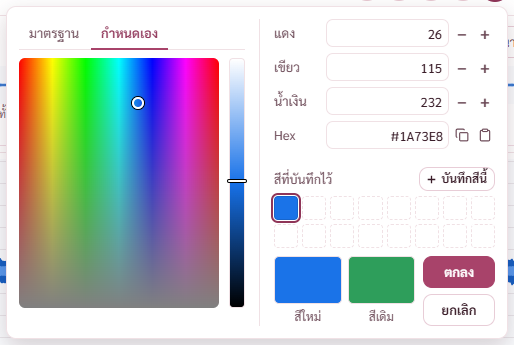
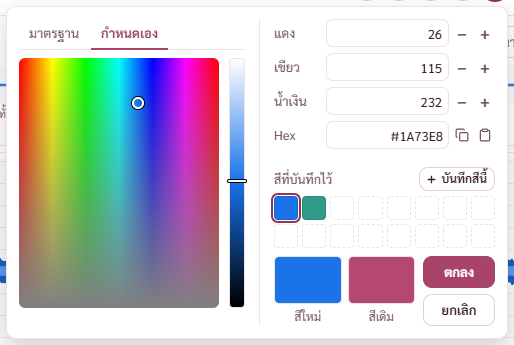
แก้บั๊กชุด 8 หน้าแปลงเสียง: จุดลากสูงคงที่ คิวเลื่อนในกรอบ ส่วนตั้งค่ากับปุ่มแปลงตรึงล่างจอ · ดรอปดาวน์ชนิดเสียงแบ่งเสียคุณภาพกับไม่เสียคุณภาพ หัวย่อยตามชนิด ช่องค้นมีแว่นขยาย ลอยไม่โดนกรอบตัด · แผงสีกำหนดเอง กดตกลงแล้วใช้สีนี้ สีเดิมถูก ยกเลิกคืนชุดเดิม
เป้าหมาย
--------
ชุด 8 ใน docs/BUGS.md ข้อ 26 27 · พี่กันสั่ง "ทำชุด 8 ต่อ"
- ข้อ 26 "มันดูแปลกๆไหม ปุ่มเพิ่มไฟล์มันลดๆๆๆลงเรื่อยๆ" · "เอา เเต่เดี๋ยวตอนทำจริงดูอีกที" · "จุดนี้ต้องตรึงไว้ด้วย ตอนที่มีเพลเยอะๆ"
- ข้อ 27 "ใส่ alac ยัง" · "เจอละ เราหาไม่เจอเอง" · "ดีเลยย เอา" (ทั้งสองกลุ่ม หัวย่อย ช่องค้น)
- ระหว่างทำ พี่กันทัก "หัวข้อ สีเข้มขึ้นได้นะ กับเส้นเเบ่ได้" · "เเนวเดียวกัน เเละ icon เเว่นขยายหายไปไหน" · "ขยายให้ยาวถึงปุ่มตั้ค่าได้" · "ขอใหญ่กว่านี้นิดๆ เเละสีตามธีมเว็บ"
- งานแก้ต่อชุด 7 ที่พี่กันเจอระหว่างนี้ "เรากดเลือกสีอื่นขึ้นมา เเล้วเรายัไม่เลือกสีอะไรเลย เเล้วกดตกลง มันไม่เปลี่ยนสี ทั้งๆที่ สีใหม่ สีเดิมมันดูขึ้นผิดด้วย"
รอบนี้ไม่แตะ ชุด 9 ถึง 13

ที่ทำ
-----

หน้าแปลงเสียง — src/styles/app.css · src/components/ConvertPane.tsx
------------------------------------------------------------------
[1] คิวมีไฟล์ จุดลากสูง 90 จุดคงที่ · รายการคิวเลื่อนในกรอบของตัวเอง · ส่วนตั้งทีเดียวทั้งคิว ที่เก็บไฟล์ใหม่ ปุ่มแปลง อยู่ล่างจอเสมอ เส้นแบ่งด้านบนเดิม (ข้อ 26)
เดิม       จุดลากยืดเต็มที่ว่างที่เหลือ 1 ไฟล์เกือบครึ่งจอ 7 ไฟล์เหลือแถบบาง · คิวยาวต้องเลื่อนหน้าหาปุ่มแปลง
ใหม่       กฎ :has([data-qlist]) ให้หน้าสูงพอดีจอ รายการคิว overflow auto จุดลาก 90 จุด ส่วนล่าง margin-top auto · คิวว่างใช้จุดลากใหญ่เต็มหน้าเหมือนเดิม
ตรวจ       คิว 1 3 7 ไฟล์ จุดลากสูง 90 ทุกครั้ง แถวปุ่มแปลงจบที่ขอบล่างจอ 852 หน้าไม่เลื่อน · 7 ไฟล์รายการเลื่อนในกรอบ · ภาพ 26-คิว-1-ไฟล์ 26-คิว-3-ไฟล์ 26-คิว-7-ไฟล์
[…]

Changed region(s): [[0.6537, 0.7246, 0.8093, 0.8986], [0.5603, 0.5507, 0.6537, 0.6377]]

diff --git a/src/components/Dropdown.tsx b/src/components/Dropdown.tsx
@@ -4,11 +4,13 @@
    ✓ ตัวหนังสือในปุ่มไม่มีอะไรตัด ตัดที่ขอบปุ่มที่เดียว หัว ไ ใ โ ไม่โดนเฉือน
    ✓ ปุ่มกว้างเท่าตัวเลือกที่ยาวที่สุด ไม่หดกระตุกตอนเปลี่ยนค่า */
 import { useCallback, useEffect, useRef, useState } from "react";
+import { createPortal } from "react-dom";
 import { dropStyle, useDropPlacement } from "../lib/popupFit";
 import { useClickOutside, useEscClose } from "../lib/popup";
-import { IcChevronDown } from "./icons";
+import { IcChevronDown, IcSearch } from "./icons";
 
-export type DdOption<T extends string> = { value: T; label: string };
+/** group หัวกลุ่มใหญ่ · sub หัวย่อยในกลุ่ม · ตัวเลือกเรียงตามกลุ่มมาแล้ว หัวขึ้นตอนกลุ่มเปลี่ยน */
+export type DdOption<T extends string> = { value: T; label: string; group?: string; sub?: string };
 
 export default function Dropdown<T extends string>(p: {
   options: DdOption<T>[];
@@ -19,24 +21,43 @@ export default function Dropdown<T extends string>(p: {
   display?: (opt: DdOption<T> | undefined) => string;
   /** ปุ่มยืดเต็มช่องไหม · ไม่ยืด = กว้างเท่าตัวเลือกที่ยาวที่สุด */
   stretch?: boolean;
+  /** ช่องพิมพ์ค้นบนสุดของรายการ ค้นทั้งป้าย หัวกลุ่ม หัวย่อย (BUGS ข้อ 27 พี่กัน "ดีเลยย เอา") */
+  search?: boolean;
+  /** รายการลอยบนสุดของหน้า ไม่โดนกรอบที่เลื่อนได้ตัด (ใช้ในแถวของรายการที่เลื่อนในกรอบ เช่นคิวแปลงเสียง) */
+  portal?: boolean;
 }) {
   const [open, setOpen] = useState(false);
   const [hi, setHi] = useState(-1);
+  const [qy, setQy] = useState("");
+  const words = qy.trim().toLowerCase().split(/\s+/).filter(Boolean);
+  const list = words.length ? p.options.filter((o) => { const t = `${o.label} ${o.group ?? ""} ${o.sub ?? ""}`.toLowerCase(); return words.every((w) => t.includes(w)); }) : p.options;
   const wrap = useRef<HTMLDivElement>(null);
   const panel = useRef<HTMLDivElement>(null);
   const btn = useRef<HTMLButtonElement>(null);
   const place = useDropPlacement(open, wrap, panel);
   const close = useCallback(() => { setOpen(false); btn.current?.focus(); }, []);
   useEscClose(open, close);
-  useClickOutside(open, wrap, () => setOpen(false));
+  useClickOutside(open && !p.portal, wrap, () => setOpen(false));
+  // ลอยบนสุดของหน้า กดนอกปุ่มและนอกรายการปิด · หน้าเลื่อนปิด (ตำแหน่งยึดกับจอ)
+  const [fixedPos, setFixedPos] = useState<{ left: number; right: number; top: number; bottom: number; width: number } | null>(null);
+  useEffect(() => {
+    if (!open || !p.portal) return;
+    // กว้างถึงขอบขวาของกลุ่มที่ปุ่มอยู่ (เช่นถึงปุ่มตั้งค่าข้างดรอปดาวน์ในแถวคิว · พี่กันสั่ง "ขยายให้ยาวถึงปุ่มตั้ค่าได้")
+    const r = wrap.current?.getBoundingClientRect(), pr = wrap.current?.parentElement?.getBoundingClientRect(); if (r) { const right = Math.max(r.right, pr?.right ?? r.right); setFixedPos({ left: r.left, right, top: r.top, bottom: r.bottom, width: right - r.left }); }
+    const down = (e: MouseEvent) => { const t = e.target as Node; if (!wrap.current?.contains(t) && !panel.current?.contains(t)) setOpen(false); };
+    const scroll = (e: Event) => { if (!panel.current?.contains(e.target as Node)) setOpen(false); };
+    document.addEventListener("mousedown", down); window.addEventListener("scroll", scroll, true);
+    return () => { document.removeEventListener("mousedown", down); window.removeEventListener("scroll", scroll, true); };
+  }, [open, p.portal]);
 
   const cur = p.options.find((o) => o.value === p.value);
   const text = p.display ? p.display(cur) : cur?.label ?? "";
   const shown = p.display ? p.options.map((o) => p.display!(o)) : p.options.map((o) => o.label);
 
   useEffect(() => {
-    if (open) setHi(Math.max(0, p.options.findIndex((o) => o.value === p.value)));
+    if (open) { setQy(""); setHi(Math.max(0, p.options.findIndex((o) => o.value === p.value))); }
   }, [open, p.options, p.value]);
+  useEffect(() => { if (open && words.length) setHi(list.length ? 0 : -1); /* eslint-disable-next-line react-hooks/exhaustive-deps */ }, [qy]);
 
   useEffect(() => {
     if (!open || hi < 0) return;
@@ -46,14 +67,14 @@ export default function Dropdown<T extends string>(p: {
   const pick = (v: T) => { p.onChange(v); close(); };
 
   const onKey = (e: React.KeyboardEvent) => {
-    const n = p.options.length;
+    const n = list.length;
     if (!open && (e.key === "ArrowDown" || e.key === "ArrowUp" || e.key === "Enter" || e.key === " ")) {
       e.preventDefault(); setOpen(true); return;
     }
     if (!open) return;
     if (e.key === "ArrowDown") { e.preventDefault(); setHi((h) => (h + 1) % n); }
     if (e.key === "ArrowUp") { e.preventDefault(); setHi((h) => (h <= 0 ? n - 1 : h - 1)); }
-    if (e.key === "Enter" || e.key === " ") { e.preventDefault(); if (hi >= 0) pick(p.options[hi].value); }
+    if (e.key === "Enter" || (e.key === " " && !p.search)) { e.preventDefault(); if (hi >= 0 && list[hi]) pick(list[hi].value); }
     if (e.key === "Tab") setOpen(false);
   };
 
@@ -82,17 +103,27 @@ export default function Dropdown<T extends string>(p: {
         )}
         <IcChevronDown />
       </button>
-      {open && (
+      {open && (() => { const menu = (
         <div
           ref={panel}
           className="menu pop-in"
           role="listbox"
           aria-label={p.label}
-          style={{ position: "absolute", right: 0, minWidth: "100%", zIndex: "var(--z-menu)" as unknown as number, ...dropStyle(place) }}
+          style={p.portal && fixedPos
+            ? { position: "fixed", left: fixedPos.left, minWidth: fixedPos.width, maxWidth: window.innerWidth - fixedPos.left - 8, zIndex: "var(--z-menu)" as unknown as number, maxHeight: place.max, ...(place.up ? { bottom: window.innerHeight - fixedPos.top + 6 } : { top: fixedPos.bottom + 6 }) }
+            : { position: "absolute", right: 0, minWidth: "100%", zIndex: "var(--z-menu)" as unknown as number, ...dropStyle(place) }}
         >
-          {p.options.map((o, i) => (
+          {p.search && (
+            <div className="ddsearch" onMouseDown={(e) => e.stopPropagation()}>
+              <IcSearch size={14} />
+              <input autoFocus value={qy} onChange={(e) => setQy(e.target.value)} onKeyDown={onKey} placeholder="พิมพ์ค้น เช่น alac 5.1 320" aria-label={"ค้นใน" + p.label} data-ddsearch />
+            </div>
+          )}
+          {p.search && !list.length && <div className="ddempty">ไม่เจอตัวเลือกที่ตรงกับ “{qy}”</div>}
+          {list.map((o, i) => (<div key={o.value} style={{ display: "contents" }}>
+            {o.group && o.group !== list[i - 1]?.group && <div className="ddgroup" role="presentation">{o.group}</div>}
+            {o.sub && (o.sub !== list[i - 1]?.sub || o.group !== list[i - 1]?.group) && <div className="ddsub" role="presentation">{o.sub}</div>}
             <div
-              key={o.value}
               role="option"
               aria-selected={o.value === p.value}
               className={"opt" + (o.value === p.value ? " on" : "") + (i === hi ? " hi" : "")}
@@ -106,9 +137,8 @@ export default function Dropdown<T extends string>(p: {
                 <svg width="14" height="14" viewBox="0 0 24 24" fill="none" stroke="currentColor" strokeWidth="3" aria-hidden="true"><path d="M5 12.5l4.5 4.5L19 7.5" /></svg>
               )}
             </div>
-          ))}
-        </div>
-      )}
+          </div>))}
+        </div>); return p.portal ? createPortal(menu, document.body) : menu; })()}
     </div>
   );
 }

diff --git a/src/styles/app.css b/src/styles/app.css
@@ -1325,3 +1325,36 @@ html[data-full] .titlebar, html[data-full] .sidewrap, html[data-full] aside.side
 [data-colorpick] .padcmp > span { flex: 1; display: flex; flex-direction: column; gap: 3px; }
 [data-colorpick] .padcmp i { width: 100%; height: auto; flex: 1; min-height: 40px; }
 :is([data-crop], [data-colorpick]) .padsaved-head .btn { padding: 0 7px 0 5px; gap: 3px; }
+
+/* หน้าแปลงเสียงตอนคิวมีไฟล์ (BUGS ข้อ 26) · จุดลากสูงคงที่ 90 จุด ไม่หดตามจำนวนไฟล์ · รายการคิวเลื่อนในกรอบของตัวเอง
+   ส่วนตั้งทีเดียวทั้งคิว ที่เก็บไฟล์ใหม่ ปุ่มแปลง อยู่ล่างจอเสมอ มีเส้นแบ่งด้านบน (พี่กัน "ปุ่มเพิ่มไฟล์มันลดๆๆๆลงเรื่อยๆ" · "จุดนี้ต้องตรึงไว้ด้วย ตอนที่มีเพลเยอะๆ") · คิวว่างใช้จุดลากใหญ่เต็มหน้าเหมือนเดิม */
+.ag[data-graphmode="convert"]:has([data-qlist]) { height: 100%; min-height: 0; box-sizing: border-box; }
+.ag[data-graphmode="convert"]:has([data-qlist]) > .cq { flex: 1 1 0; min-height: 0; }
+.ag[data-graphmode="convert"] > .cq:has([data-qlist]) > .card:first-child { flex: 0 1 auto; min-height: 0; }
+.ag[data-graphmode="convert"] > .cq:has([data-qlist]) > .card:first-child > .cqlist { flex: 0 1 auto; min-height: 0; overflow-y: auto; overscroll-behavior: contain; }
+.ag[data-graphmode="convert"] > .cq:has([data-qlist]) > .card:first-child > .drop { flex: none; height: 90px; min-height: 90px !important; box-sizing: border-box; }
+.ag[data-graphmode="convert"] > .cq:has([data-qlist]) > .cqcards { margin-top: auto; flex: none; }
+.ag[data-graphmode="convert"] > .cq:has([data-qlist]) > .cqfoot { margin-top: 0; flex: none; padding-bottom: 14px; }
+
+/* ดรอปดาวน์มีช่องค้นกับหัวกลุ่ม (BUGS ข้อ 27) · ช่องค้นตรึงบนสุดของรายการ */
+.menu .ddsearch { position: sticky; top: -6px; z-index: 1; margin: -6px -6px 4px; padding: 6px; background: var(--win); border-bottom: 1px solid var(--line); }
+.menu .ddsearch input { width: 100%; box-sizing: border-box; height: 30px; padding: 0 10px; border: 1px solid var(--line); border-radius: 7px; background: var(--win2); color: var(--txt); font: inherit; font-size: 13px; outline: 0; }
+.menu .ddsearch input:focus { border-color: var(--accent); box-shadow: 0 0 0 3px color-mix(in srgb, var(--accent) 22%, transparent); }
+.menu .ddgroup { padding: 8px 10px 2px; font-size: 12px; font-weight: 700; color: var(--accent-ink); letter-spacing: .02em; }
+.menu .ddgroup:not(:first-of-type) { border-top: 1px solid var(--line); margin-top: 4px; }
+.menu .ddsub { padding: 4px 10px 1px 14px; font-size: 11.5px; font-weight: 600; color: var(--txt3); }
+.menu .ddempty { padding: 10px; font-size: 13px; color: var(--txt3); }
+/* หัวย่อยชนิดเสียงสีเข้มขึ้น มีเส้นแบ่งก่อนแต่ละชนิด (พี่กันสั่ง "หัวข้อ สีเข้มขึ้นได้นะ กับเส้นเเบ่ได้") */
+.menu .ddsub { color: var(--txt); font-size: 12px; font-weight: 700; padding-top: 7px; margin-top: 3px; border-top: 1px solid var(--line); }
+.menu .ddgroup + .ddsub { border-top: 0; margin-top: 0; padding-top: 3px; }
+/* หัวกลุ่มใหญ่มีเส้นแบ่งเข้มกว่าหัวย่อย ยกเว้นกลุ่มแรกใต้ช่องค้น */
+.menu .ddgroup { border-top: 2px solid var(--line); margin-top: 6px; padding-top: 9px; }
+.menu > .ddsearch + div > .ddgroup, .menu > div:first-child > .ddgroup { border-top: 0; margin-top: 0; padding-top: 4px; }
+/* ช่องค้นในดรอปดาวน์มีแว่นขยายด้านซ้าย (พี่กันถาม "icon เเว่นขยายหายไปไหน" · สกิล search-system) */
+.menu .ddsearch { display: flex; align-items: center; }
+.menu .ddsearch svg { position: absolute; left: 16px; color: var(--txt3); pointer-events: none; }
+.menu .ddsearch input { padding-left: 30px; }
+/* หัวย่อยชนิดเสียงใหญ่ขึ้นนิดหน่อย สีตามธีม (พี่กันสั่ง "ขอใหญ่กว่านี้นิดๆ เเละสีตามธีมเว็บ") */
+.menu .ddsub { font-size: 13px; color: var(--accent-ink); }
+/* หัวกลุ่มใหญ่ยังเด่นกว่าหัวย่อย */
+.menu .ddgroup { font-size: 13.5px; }

diff --git a/src/pages/GraphPage.tsx b/src/pages/GraphPage.tsx
@@ -672,6 +672,7 @@ export default function GraphPage({ req, onConsumed, onBitrate }: { req: GraphRe
   const [ovFold] = useOvFold();
   // หน้าความดัง รวมทุกช่อง (LUFS) · L · R · เทียบซ้ายขวา (dB แบบซ้อนเทียบเดิม)
   const [loudMode, setLoudMode] = useState<"mix" | "FL" | "FR" | "lr">("mix");
+  const [swSnap, setSwSnap] = useState<{ theme: string; color: string; old: string } | null>(null);
   const [spekRes, setSpekRes] = useState<"fine" | "coarse">(() => { try { return localStorage.getItem(SPEK_RES_KEY) === "coarse" ? "coarse" : "fine"; } catch { return "fine"; } });
   const [zoom, setZoom] = useState<number | "all">("all");
   const [center, setCenter] = useState(0);
@@ -1153,7 +1154,11 @@ export default function GraphPage({ req, onConsumed, onBitrate }: { req: GraphRe
         disabled={k === "cmp" && !names.includes("FL")} title={k === "cmp" && !names.includes("FL") ? "ซ้อนเทียบใช้กับแทร็กที่มีช่องซ้ายขวา" : undefined}>{VIEW_ICON[k]}{l}</button>)}</div>
       {/* ปุ่มแบบรูปคลื่นย้ายลงหัวการ์ดรูปคลื่น (BUGS ข้อ 12 · พี่กัน "พอเราปรับโโยเอา audacity มาเป็นตัวหลัก เจ้ากราฟแท่งมันจะเหลือ 1 อัน เอามันย้ายลงมาในการ์ดเลย") */}
       <div className="sws" style={{ marginLeft: "auto" }} role="group" aria-label="ชุดสี">{THEME_ORDER.map((n) => <button key={n} type="button" className={"sw" + (prefs.theme === n ? " on" : "")} aria-label={"ชุดสี" + n} title={"ชุดสี" + n} onClick={() => setPref("theme", n)} data-theme={n}
-        style={{ background: `linear-gradient(135deg,${THEMES[n].ramp[2]},${THEMES[n].ramp[5]} 60%,${THEMES[n].ramp[7]})` }} />)}<PadCustom pad={prefs.customColor} what="สีกราฟ" custom={prefs.theme === CUSTOM} short={false} panelStyle={{ left: "auto", right: 0, zIndex: 30 }}
+        style={{ background: `linear-gradient(135deg,${THEMES[n].ramp[2]},${THEMES[n].ramp[5]} 60%,${THEMES[n].ramp[7]})` }} />)}{/* เปิดแผงจำชุดสีตอนนั้นไว้ · สีเดิมคือสีที่กราฟใช้อยู่ตอนเปิด · ตกลงใช้สีกำหนดเองแม้ยังไม่ได้แตะสี · ยกเลิกคืนชุดสีเดิมทั้งชุด */}
+        <PadCustom pad={prefs.customColor} what="สีกราฟ" custom={prefs.theme === CUSTOM} short={false} panelStyle={{ left: "auto", right: 0, zIndex: 30 }}
+          oldColor={swSnap?.old} onOpen={() => setSwSnap({ theme: prefs.theme, color: prefs.customColor, old: prefs.theme === CUSTOM ? prefs.customColor : THEMES[prefs.theme].rms })}
+          onOk={() => setPrefs((p) => { const n = { ...p, theme: CUSTOM }; try { localStorage.setItem(PREF_KEY, JSON.stringify(n)); } catch { /* เก็บไม่ได้ ใช้ค่าในหน้าไปก่อน */ } return n; })}
+          onCancel={() => { const sn = swSnap; if (sn) setPrefs((p) => { const n = { ...p, theme: sn.theme, customColor: sn.color }; try { localStorage.setItem(PREF_KEY, JSON.stringify(n)); } catch { /* เก็บไม่ได้ */ } return n; }); }}
           onPad={(c) => setPrefs((p) => { const n = { ...p, customColor: c, theme: CUSTOM }; try { localStorage.setItem(PREF_KEY, JSON.stringify(n)); } catch { /* เก็บไม่ได้ ใช้ค่าในหน้าไปก่อน */ } return n; })}
           trigger={(open, toggle) => <button type="button" className={"sw sw-custom" + (prefs.theme === CUSTOM ? " on" : "")} aria-expanded={open} aria-label="ชุดสีกำหนดเอง" title="ชุดสีกำหนดเอง เลือกสีหลักสีเดียว โปรแกรมไล่ชุดสีให้" onClick={toggle} data-sw-custom
             style={{ background: `${prefs.theme === CUSTOM ? `linear-gradient(135deg,${th.ramp[2]},${th.ramp[5]} 60%,${th.ramp[7]})` : `linear-gradient(135deg,${themeOf(prefs.customColor).ramp[2]},${themeOf(prefs.customColor).ramp[5]} 60%,${themeOf(prefs.customColor).ramp[7]})`} padding-box, conic-gradient(#e0457b,#f0a23b,#e8d23a,#4cc38a,#3b8fe0,#8a5ae0,#e0457b) border-box` }} />} /></div>

diff --git a/src/components/ConvertPane.tsx b/src/components/ConvertPane.tsx
@@ -98,7 +98,8 @@ export default function ConvertPane(p: { onCompare: (a: string, b: string, note:
   const openPanel = (k: string) => setPanel(k);
   useEffect(() => { encodeApi.status().then(setEncs, () => setEncs([])); }, []);
   /** ชุดค่าทุกชนิดเสียงในดรอปดาวน์ · ค่าที่ตั้งเองในแผงไม่ตรงชุดไหน ก็ยังขึ้นชื่อค่าที่ใช้อยู่ */
-  const presets = useMemo(() => CODECS.flatMap((c) => c.presets.map((pr, i) => ({ value: c.id + ":" + i, label: c.name + " · " + pr.label + " · " + pr.detail, spec: presetSpec(c, i, encs) }))), [encs]);
+  // แบ่งสองกลุ่มใหญ่ เสียคุณภาพ กับ ไม่เสียคุณภาพ หัวย่อยตามชนิด (BUGS ข้อ 27 พี่กันหา ALAC ไม่เจอ)
+  const presets = useMemo(() => [false, true].flatMap((ll) => CODECS.filter((c) => !!c.lossless === ll).flatMap((c) => c.presets.map((pr, i) => ({ value: c.id + ":" + i, label: c.name + " · " + pr.label + " · " + pr.detail, group: ll ? "ไม่เสียคุณภาพ" : "เสียคุณภาพ", sub: c.name, spec: presetSpec(c, i, encs) })))), [encs]);
   const presetOf = (sp: EncodeSpec) => presets.find((x) => x.spec.codec === sp.codec && specLabel(x.spec) === specLabel(sp))?.value ?? "";
   const specOf = (v: string) => presets.find((x) => x.value === v)?.spec ?? null;
 
@@ -137,7 +138,7 @@ export default function ConvertPane(p: { onCompare: (a: string, b: string, note:
                 <span style={{ color: "var(--txt3)" }} aria-hidden="true">→</span>
                 {locked ? <span className="dd locked" style={{ flex: 1 }}><span style={{ overflow: "hidden", textOverflow: "ellipsis", whiteSpace: "nowrap" }}>{specLabel(it.spec)}</span></span> : (
                   <span style={{ display: "flex", gap: 4, minWidth: 0 }}>
-                    <Dropdown stretch label={"ปลายทาง " + baseName(it.path)} value={presetOf(it.spec)} options={presets} display={(o) => o?.label ?? specLabel(it.spec)} onChange={(v) => { const sp = specOf(v); if (sp) setItemSpec(it.id, sp); }} />
+                    <Dropdown stretch search portal label={"ปลายทาง " + baseName(it.path)} value={presetOf(it.spec)} options={presets} display={(o) => o?.label ?? specLabel(it.spec)} onChange={(v) => { const sp = specOf(v); if (sp) setItemSpec(it.id, sp); }} />
                     <button type="button" className="btn btn-ghost btn-sm" style={{ width: 34, padding: 0, flex: "none" }} title="ตั้งละเอียดในแผงตั้งค่าเสียง" aria-label="ตั้งละเอียดในแผงตั้งค่าเสียง" onClick={() => openPanel(it.id)} data-qto><IcSettings size={15} /></button>
                   </span>
                 )}
@@ -169,7 +170,7 @@ export default function ConvertPane(p: { onCompare: (a: string, b: string, note:
       <div className="cqcards">
         <div className="card"><h3>ตั้งทีเดียวทั้งคิว</h3>
           <div className="optline">
-            <Dropdown stretch label="ตั้งทีเดียวทั้งคิว" value={pending.length === 0 ? presetOf(q.all) : allSame ? presetOf(pending[0].spec) : ""} options={presets}
+            <Dropdown stretch search label="ตั้งทีเดียวทั้งคิว" value={pending.length === 0 ? presetOf(q.all) : allSame ? presetOf(pending[0].spec) : ""} options={presets}
               display={(o) => o?.label ?? (pending.length === 0 ? specLabel(q.all) : allSame ? specLabel(pending[0].spec) : "ตั้งทีละไฟล์ (ตามแถว)")} onChange={(v) => { const sp = specOf(v); if (sp) setAll(sp); }} />
             <button type="button" className="btn btn-ghost btn-sm" onClick={() => openPanel("all")} data-qall><IcSettings size={15} />เปิดแผงตั้งค่าเสียง</button>
           </div>

diff --git a/src/components/ColorPick.tsx b/src/components/ColorPick.tsx
@@ -48,7 +48,7 @@ const SAVED_KEY = "color-saved", SAVED_MAX = 16;
 function loadSaved(): string[] { try { const v = JSON.parse(localStorage.getItem(SAVED_KEY) ?? "[]"); return Array.isArray(v) ? v.filter((x) => typeof x === "string" && /^#[\da-f]{6}$/.test(x)).slice(0, SAVED_MAX) : []; } catch { return []; } }
 function keepSaved(v: string[]) { try { localStorage.setItem(SAVED_KEY, JSON.stringify(v)); } catch { /* เก็บไม่ได้ ใช้ในหน้าไปก่อน */ } }
 
-export function PadCustom(p: { pad: string; onPad: (c: string) => void; custom: boolean; short: boolean; what?: string; trigger?: (open: boolean, toggle: () => void) => React.ReactNode; panelStyle?: React.CSSProperties }) {
+export function PadCustom(p: { pad: string; onPad: (c: string) => void; custom: boolean; short: boolean; what?: string; trigger?: (open: boolean, toggle: () => void) => React.ReactNode; panelStyle?: React.CSSProperties; onOpen?: () => void; onOk?: () => void; onCancel?: () => void; oldColor?: string }) {
   const { short } = p, what = p.what ?? "สีขอบ";
   const [open, setOpen] = useState(false);
   const [tab, setTab] = useState<"std" | "own">("own");
@@ -62,8 +62,9 @@ export function PadCustom(p: { pad: string; onPad: (c: string) => void; custom: 
   const saveColor = (c: string) => { const n = [c.toLowerCase(), ...saved.filter((x) => x !== c.toLowerCase())].slice(0, SAVED_MAX); setSaved(n); keepSaved(n); };
   const dropColor = (c: string) => { const n = saved.filter((x) => x !== c); setSaved(n); keepSaved(n); };
   const wrap = useRef<HTMLSpanElement>(null), panel = useRef<HTMLDivElement>(null);
-  const cancel = () => { p.onPad(old); setOpen(false); };
-  const toggle = () => { if (open) { setOpen(false); return; } setOld(p.pad); setHsl(rgbHsl(hexRgb(p.pad))); setHexText(null); setSaved(loadSaved()); setOpen(true); };
+  // หน้ากราฟส่ง onCancel คืนชุดสีเดิมทั้งชุด ไม่ใช่แค่สี · onOk ให้กดตกลงแล้วใช้สีนี้แม้ยังไม่ได้แตะสี (พี่กันทัก "เรายัไม่เลือกสีอะไรเลย เเล้วกดตกลง มันไม่เปลี่ยนสี")
+  const cancel = () => { if (p.onCancel) p.onCancel(); else p.onPad(old); setOpen(false); };
+  const toggle = () => { if (open) { setOpen(false); return; } setOld(p.pad); setHsl(rgbHsl(hexRgb(p.pad))); setHexText(null); setSaved(loadSaved()); p.onOpen?.(); setOpen(true); };
   useEscClose(open, cancel);
   useEffect(() => {
     if (!open) return;
@@ -154,9 +155,9 @@ export function PadCustom(p: { pad: string; onPad: (c: string) => void; custom: 
                   : <i key={i} />)}</div>
               </div>
               <div className="padfoot">
-                <div className="padcmp"><span><i style={{ background: p.pad }} data-pad-new />สีใหม่</span><span><i style={{ background: old }} />สีเดิม</span></div>
+                <div className="padcmp"><span><i style={{ background: p.pad }} data-pad-new />สีใหม่</span><span><i style={{ background: p.oldColor ?? old }} data-pad-old />สีเดิม</span></div>
                 <div className="padbtns">
-                  <button type="button" className="btn btn-main btn-sm" onClick={() => setOpen(false)} data-pad-ok>ตกลง</button>
+                  <button type="button" className="btn btn-main btn-sm" onClick={() => { p.onOk?.(); setOpen(false); }} data-pad-ok>ตกลง</button>
                   <button type="button" className="btn btn-ghost btn-sm" onClick={cancel} data-pad-cancel>ยกเลิก</button>
                 </div>
               </div>

diff --git a/docs/BUGS.md b/docs/BUGS.md
@@ -18,7 +18,7 @@
 | 5 | กราฟเสียง ความถี่ | 14 รวมมุมมองความถี่เข้าหน้าวิเคราะห์ ชื่อปุ่ม ความถี่ · ปุ่มช่องเป็นแถว ไม่พอเป็นดรอปดาวน์ · แสดงทุกช่องเรียงลงมา · ละเอียด กับ ภาพรวม ตั้งค่าตั้งต้นได้ · แกนเส้นตรงกับล็อก · 38 กดปุ่มซูมแล้วโหลดค้าง · 40 เส้นตามเมาส์ | ✅ 11 พ.ย. 2569 |
 | 6 | กราฟเสียง ความถี่เฉลี่ย ความดัง | 15 แถบซูมขึ้นแถวบน · 16 ป้ายช่วงเวลาที่เอามาเฉลี่ย ช่องตำแหน่งชี้ค้าง ป้ายทั้งไฟล์ค้าง · 19 ป้ายสีเส้นเล็กลงแทนที่แถบซูม · 20 ตัวเลือกสีทึบใต้เส้น · 21 ⓘ M S · 22 ⓘ แถวตั้งค่า · 24 รวมความดังกับซ้อนเทียบ · 25 เสียงหึ่งจากไฟบ้าน กับตรวจเพิ่ม 4 อย่าง | ✅ 11 พ.ย. 2569 |
 | 7 | กราฟเสียง ทุกมุมมอง | 39 เต็มจอจริง · 41 วงกลมสีกำหนดเอง | ✅ 11 พ.ย. 2569 |
-| 8 | กราฟเสียง แปลงเสียง | 26 จุดลากสูงคงที่ คิวเลื่อนในกรอบ ส่วนท้ายตรึงล่างจอ (ทำแล้วส่งภาพคิว 1 3 7 ไฟล์ให้ดู) · 27 ดรอปดาวน์ตัวแปลงสองกลุ่ม หัวย่อย ช่องค้นหา | ⬜ |
+| 8 | กราฟเสียง แปลงเสียง | 26 จุดลากสูงคงที่ คิวเลื่อนในกรอบ ส่วนท้ายตรึงล่างจอ (ทำแล้วส่งภาพคิว 1 3 7 ไฟล์ให้ดู) · 27 ดรอปดาวน์ตัวแปลงสองกลุ่ม หัวย่อย ช่องค้นหา | ✅ 11 พ.ย. 2569 |
 | 9 | เสียงและซับ MediaInfo | 30 บันทึก .sha256 เปิดหน้าต่างเลือกที่บันทึก ตั้งค่าได้ว่าถามหรือบันทึกข้างไฟล์ · 34 แปลงเสียงในส่วนตั้งค่าแทร็ก · 35 ย้ายงานแยกแทร็กไปหน้าเสียงและซับ | ⬜ |
 | 10 | บิตเรต | 36 เมนูแบบ Bitrate Viewer ชี้แล้วเปลี่ยนสี มีคำอธิบายทุกแถว · 37 ปุ่มสีแบบ Bitrate Viewer ในแบบใหม่ · 42 ดรอปดาวน์ความละเอียด รูปแบบแท่ง ทีละเฟรมของไฟล์เสียง อัตโนมัติตามซูม สีกำหนดเอง · 44 แบบเดิมแบ่งแท่งทีละวินาที เช็ก MIN 3 กับ 19 kbps | ⬜ |
 | 11 | ตั้งค่า | 7 ปุ่มกลับค่าตั้งต้น มีแอนิเมชันกับติ๊กถูก จางเมื่อเป็นค่าตั้งต้น | ⬜ |
@@ -90,11 +90,11 @@
 | 12 (ต่อ 5) | 10 พ.ย. 2569 | กราฟเสียง (รูปคลื่น) | พี่กันเปิดโปรแกรม Audacity จริงแล้วส่งภาพ *"เราอยากได้กราฟแบบนี้มั่ง ให้เป็นปุ่มเลือกอีกตัว เพราะอันนี้คือกราฟที่เธอเเคยส่งให้เรา"* | [ภาพ](bugs/ไอเดีย-หน้าจอ-audacity.png) | ✅ แก้แล้ว 11 พ.ย. 2569 · เดิม ยังไม่แก้ · เพิ่มตัวเลือกรูปคลื่นอีกแบบ หน้าตาตามโปรแกรม Audacity จริง สีน้ำเงินม่วงบนพื้นขาว แกน −1.0 ถึง 1.0 ช่องซ้ายขวาเต็มความสูง (สีเป็นสีของกราฟ ไม่เปลี่ยนตามโทน) · ต่างจากแบบ Audacity ในโปรแกรมตอนนี้ที่ใช้สีตามโทน · วางเป็นปุ่มเลือกในการ์ดรูปคลื่น ข้างปุ่มแท่ง |
 | 12 (ต่อ 6) | 10 พ.ย. 2569 | กราฟเสียง (รูปคลื่น) | พี่กันเคาะสีของแบบ Audacity จริง *"จะสีอะไรก็ได้ เเค่เอารูปแบบมา"* | – | ✅ แก้แล้ว 11 พ.ย. 2569 · เดิม ยังไม่แก้ · เอาแค่รูปแบบ (ทรงคลื่นทึบเต็มช่อง แกน −1.0 ถึง 1.0 ช่องซ้ายขวาแยกเต็มความสูง) สีใช้ตามโทนของโปรแกรมได้ |
 | 25 | 10 พ.ย. 2569 | กราฟเสียง (มุมมองความถี่เฉลี่ย แถบผลตรวจใต้กราฟ) | พี่กันถาม *"เจ้าเเถบนี้ เธอเอาไว้เเสดงอะไรมั่ง นอกจากฮัมเพลง"* · ตอนนี้ตรวจแค่เสียงฮัมจากไฟบ้าน 50 60 Hz · พี่กันเข้าใจว่าเป็นฮัมเพลง *"5555 เราคิดว่ามันคือฮัมเพลง ต้อเปลี่ยนคำ"* | [ภาพ](bugs/25-แถบตรวจเสียงฮัม.png) | ✅ แก้แล้ว 11 พ.ย. 2569 · เสียงหึ่งจากไฟบ้าน (hum) · ตรวจเพิ่ม MP3 ปลอม อัปแซมเปิล เกือบโมโน DC offset ทุกข้อมี ⓘ · ลองกับไฟล์ที่ทำให้ผ่าน MP3 และอัปแซมเปิลจริงแล้วเตือนถูก · ยังไม่ได้ลองกับไฟล์ของพี่กัน · เดิม ยังไม่แก้ · เปลี่ยนคำ เสียงฮัม เป็นคำที่ไม่ชวนเข้าใจผิด เช่น **เสียงหึ่งจากไฟบ้าน** (คงคำ hum ในวงเล็บ) พร้อมปุ่ม ⓘ · พี่กันเคาะ *"ได้"* ให้ตรวจเพิ่ม 4 อย่าง **ไฟล์ไม่เสียคุณภาพปลอม** (เสียงสูงถูกตัดเป็นเส้นตรงที่ 16 19 20 kHz แปลงมาจาก MP3 AAC) · **อัปแซมเปิลปลอม** (ไฟล์ 96 kHz ไม่มีเสียงเหนือ 22 kHz แปลงมาจาก 44.1 kHz) · **เกือบเป็นโมโน** (เส้น S แทบศูนย์) · **DC offset** (พลังงานกองที่ 0 Hz) · ทุกข้อบอกว่าน่าสงสัย ไม่ตัดสินเด็ดขาด พร้อมปุ่ม ⓘ · ใช้ข้อมูลที่กราฟคำนวณแล้ว ไม่ต้องโหลดอะไร · เช็กเกณฑ์กับไฟล์ทดสอบที่ทำให้ตัดจริง และไฟล์ของพี่กัน (12 CRYst-Alise.tak 96 kHz เส้นดิ่งที่ 22 kHz) |
-| 26 | 10 พ.ย. 2569 | กราฟเสียง (โหมดแปลงเสียง จุดลากไฟล์ใต้คิว) | *"มันดูแปลกๆไหม ปุ่มเพิ่มไฟล์มันลดๆๆๆลงเรื่อยๆ"* · คิว 1 ไฟล์จุดลากสูงเกือบครึ่งจอ · 3 ไฟล์เตี้ยลง · 7 ไฟล์เหลือแถบบาง | [1 ไฟล์](bugs/26-จุดลากคิวแปลง-137.png) · [3 ไฟล์](bugs/26-จุดลากคิวแปลง-136.png) · [7 ไฟล์](bugs/26-จุดลากคิวแปลง-135.png) | ยังไม่แก้ · ต้นเหตุ จุดลากยืดเต็มที่ว่างที่เหลือ เพิ่มไฟล์ทีไรจุดลากหดตาม · ทางแก้ที่แคลร์เสนอ จุดลากสูงคงที่เท่าแบบ 7 ไฟล์ (ราว 90 จุด) ไม่ว่าคิวมีกี่ไฟล์ ที่ว่างเหลือปล่อยว่างใต้ส่วนตั้งค่า หรือคิวยาวเกินจอให้รายการคิวเลื่อนในกรอบของตัวเอง · ตอนคิวว่างยังใช้จุดลากใหญ่เต็มหน้าตามเดิม · รอพี่กันเคาะ |
-| 26 (ต่อ) | 10 พ.ย. 2569 | กราฟเสียง (โหมดแปลงเสียง) | พี่กันเคาะ *"เอา เเต่เดี๋ยวตอนทำจริงดูอีกที"* | – | ยังไม่แก้ · ทำตามแบบที่แคลร์เสนอ แล้วส่งภาพคิว 1 3 7 ไฟล์ให้พี่กันดูอีกรอบก่อนถือว่าจบ |
-| 26 (ต่อ 2) | 10 พ.ย. 2569 | กราฟเสียง (โหมดแปลงเสียง ส่วนท้ายคิว) | *"จุดนี้ต้องตรึงไว้ด้วย ตอนที่มีเพลเยอะๆ"* · ส่วน ตั้งทีเดียวทั้งคิว · ที่เก็บไฟล์ใหม่ · ปุ่ม แปลง N ไฟล์ | [ภาพ](bugs/26-ส่วนตั้งค่าท้ายคิว.png) | ยังไม่แก้ · ตรึงส่วนนี้ไว้ล่างจอเสมอ คิวยาวแค่ไหนก็เห็นปุ่มแปลงกับที่เก็บไฟล์ · ทำคู่กับรายการคิวที่เลื่อนในกรอบของตัวเอง (ข้อ 26 แถวก่อน) · มีเส้นแบ่งบนส่วนที่ตรึงแบบข้อ 5 |
-| 27 | 10 พ.ย. 2569 | กราฟเสียง (โหมดแปลงเสียง ดรอปดาวน์แปลงเป็น) | พี่กันถาม *"ใส่ alac ยัง"* · ALAC มีแล้ว (มาตรฐาน แปลงเร็ว) อยู่ต่อจาก FLAC แต่ต้องเลื่อนลงไปไกล พี่กันหาไม่เจอ | [ภาพ](bugs/27-รายการตัวแปลงยาว.png) | ยังไม่แก้ · แคลร์เสนอ ใส่หัวกลุ่มในดรอปดาวน์ตามชนิด (Opus AAC MP3 AC-3 FLAC ALAC WavPack Monkey's Audio TAK) หรือแบ่งเป็นสองกลุ่มใหญ่ เสียคุณภาพ กับ ไม่เสียคุณภาพ · หรือมีช่องพิมพ์ค้นในดรอปดาวน์ · ดรอปดาวน์ในหน้าเสียงและซับที่ใช้รายการเดียวกันทำแบบเดียวกัน · รอพี่กันเลือก |
-| 27 (ต่อ) | 10 พ.ย. 2569 | กราฟเสียง (โหมดแปลงเสียง ดรอปดาวน์แปลงเป็น) | พี่กันเจอ ALAC แล้ว *"เจอละ เราหาไม่เจอเอง"* · เคาะ *"ดีเลยย เอา"* ทั้งสามข้อ | – | ยังไม่แก้ · ดรอปดาวน์แบ่งสองกลุ่มใหญ่ เสียคุณภาพ กับ ไม่เสียคุณภาพ · ในกลุ่มมีหัวย่อยตามชนิด (Opus AAC MP3 AC-3 · FLAC ALAC WavPack Monkey's Audio TAK) · มีช่องพิมพ์ค้นบนสุดของดรอปดาวน์ ค้นชื่อชนิดหรือคำในตัวเลือก (เช่น alac 5.1 320) · ใช้ทุกที่ที่มีรายการนี้ (คิวแปลงทีละแถว ตั้งทีเดียวทั้งคิว หน้าเสียงและซับ) · ของที่กางต้องผ่านตัววัดพอดีจอ |
+| 26 | 10 พ.ย. 2569 | กราฟเสียง (โหมดแปลงเสียง จุดลากไฟล์ใต้คิว) | *"มันดูแปลกๆไหม ปุ่มเพิ่มไฟล์มันลดๆๆๆลงเรื่อยๆ"* · คิว 1 ไฟล์จุดลากสูงเกือบครึ่งจอ · 3 ไฟล์เตี้ยลง · 7 ไฟล์เหลือแถบบาง | [1 ไฟล์](bugs/26-จุดลากคิวแปลง-137.png) · [3 ไฟล์](bugs/26-จุดลากคิวแปลง-136.png) · [7 ไฟล์](bugs/26-จุดลากคิวแปลง-135.png) | ✅ แก้แล้ว 11 พ.ย. 2569 · คิวมีไฟล์ จุดลากสูง 90 จุดคงที่ · รายการคิวเลื่อนในกรอบ · ส่วนตั้งทีเดียวทั้งคิว ที่เก็บไฟล์ใหม่ ปุ่มแปลง อยู่ล่างจอเสมอ มีเส้นแบ่ง · ภาพคิว 1 3 7 ไฟล์ส่งให้พี่กันดูแล้ว · เดิม ยังไม่แก้ · ต้นเหตุ จุดลากยืดเต็มที่ว่างที่เหลือ เพิ่มไฟล์ทีไรจุดลากหดตาม · ทางแก้ที่แคลร์เสนอ จุดลากสูงคงที่เท่าแบบ 7 ไฟล์ (ราว 90 จุด) ไม่ว่าคิวมีกี่ไฟล์ ที่ว่างเหลือปล่อยว่างใต้ส่วนตั้งค่า หรือคิวยาวเกินจอให้รายการคิวเลื่อนในกรอบของตัวเอง · ตอนคิวว่างยังใช้จุดลากใหญ่เต็มหน้าตามเดิม · รอพี่กันเคาะ |
+| 26 (ต่อ) | 10 พ.ย. 2569 | กราฟเสียง (โหมดแปลงเสียง) | พี่กันเคาะ *"เอา เเต่เดี๋ยวตอนทำจริงดูอีกที"* | – | ✅ แก้แล้ว 11 พ.ย. 2569 · คิวมีไฟล์ จุดลากสูง 90 จุดคงที่ · รายการคิวเลื่อนในกรอบ · ส่วนตั้งทีเดียวทั้งคิว ที่เก็บไฟล์ใหม่ ปุ่มแปลง อยู่ล่างจอเสมอ มีเส้นแบ่ง · ภาพคิว 1 3 7 ไฟล์ส่งให้พี่กันดูแล้ว · เดิม ยังไม่แก้ · ทำตามแบบที่แคลร์เสนอ แล้วส่งภาพคิว 1 3 7 ไฟล์ให้พี่กันดูอีกรอบก่อนถือว่าจบ |
+| 26 (ต่อ 2) | 10 พ.ย. 2569 | กราฟเสียง (โหมดแปลงเสียง ส่วนท้ายคิว) | *"จุดนี้ต้องตรึงไว้ด้วย ตอนที่มีเพลเยอะๆ"* · ส่วน ตั้งทีเดียวทั้งคิว · ที่เก็บไฟล์ใหม่ · ปุ่ม แปลง N ไฟล์ | [ภาพ](bugs/26-ส่วนตั้งค่าท้ายคิว.png) | ✅ แก้แล้ว 11 พ.ย. 2569 · คิวมีไฟล์ จุดลากสูง 90 จุดคงที่ · รายการคิวเลื่อนในกรอบ · ส่วนตั้งทีเดียวทั้งคิว ที่เก็บไฟล์ใหม่ ปุ่มแปลง อยู่ล่างจอเสมอ มีเส้นแบ่ง · ภาพคิว 1 3 7 ไฟล์ส่งให้พี่กันดูแล้ว · เดิม ยังไม่แก้ · ตรึงส่วนนี้ไว้ล่างจอเสมอ คิวยาวแค่ไหนก็เห็นปุ่มแปลงกับที่เก็บไฟล์ · ทำคู่กับรายการคิวที่เลื่อนในกรอบของตัวเอง (ข้อ 26 แถวก่อน) · มีเส้นแบ่งบนส่วนที่ตรึงแบบข้อ 5 |
+| 27 | 10 พ.ย. 2569 | กราฟเสียง (โหมดแปลงเสียง ดรอปดาวน์แปลงเป็น) | พี่กันถาม *"ใส่ alac ยัง"* · ALAC มีแล้ว (มาตรฐาน แปลงเร็ว) อยู่ต่อจาก FLAC แต่ต้องเลื่อนลงไปไกล พี่กันหาไม่เจอ | [ภาพ](bugs/27-รายการตัวแปลงยาว.png) | ✅ แก้แล้ว 11 พ.ย. 2569 · ดรอปดาวน์แบ่ง เสียคุณภาพ ไม่เสียคุณภาพ หัวย่อยตามชนิด ช่องค้นบนสุด (ค้นได้หลายคำ) ทั้งแถวคิวกับตั้งทีเดียวทั้งคิว · ดรอปดาวน์ในแถวคิวลอยบนสุดของหน้า ไม่โดนกรอบรายการคิวตัด · เดิม ยังไม่แก้ · แคลร์เสนอ ใส่หัวกลุ่มในดรอปดาวน์ตามชนิด (Opus AAC MP3 AC-3 FLAC ALAC WavPack Monkey's Audio TAK) หรือแบ่งเป็นสองกลุ่มใหญ่ เสียคุณภาพ กับ ไม่เสียคุณภาพ · หรือมีช่องพิมพ์ค้นในดรอปดาวน์ · ดรอปดาวน์ในหน้าเสียงและซับที่ใช้รายการเดียวกันทำแบบเดียวกัน · รอพี่กันเลือก |
+| 27 (ต่อ) | 10 พ.ย. 2569 | กราฟเสียง (โหมดแปลงเสียง ดรอปดาวน์แปลงเป็น) | พี่กันเจอ ALAC แล้ว *"เจอละ เราหาไม่เจอเอง"* · เคาะ *"ดีเลยย เอา"* ทั้งสามข้อ | – | ✅ แก้แล้ว 11 พ.ย. 2569 · ดรอปดาวน์แบ่ง เสียคุณภาพ ไม่เสียคุณภาพ หัวย่อยตามชนิด ช่องค้นบนสุด (ค้นได้หลายคำ) ทั้งแถวคิวกับตั้งทีเดียวทั้งคิว · ดรอปดาวน์ในแถวคิวลอยบนสุดของหน้า ไม่โดนกรอบรายการคิวตัด · เดิม ยังไม่แก้ · ดรอปดาวน์แบ่งสองกลุ่มใหญ่ เสียคุณภาพ กับ ไม่เสียคุณภาพ · ในกลุ่มมีหัวย่อยตามชนิด (Opus AAC MP3 AC-3 · FLAC ALAC WavPack Monkey's Audio TAK) · มีช่องพิมพ์ค้นบนสุดของดรอปดาวน์ ค้นชื่อชนิดหรือคำในตัวเลือก (เช่น alac 5.1 320) · ใช้ทุกที่ที่มีรายการนี้ (คิวแปลงทีละแถว ตั้งทีเดียวทั้งคิว หน้าเสียงและซับ) · ของที่กางต้องผ่านตัววัดพอดีจอ |
 | 28 | 10 พ.ย. 2569 | ทั้งโปรแกรม (คลิกขวา) | *"ทำไมเราคลิกขวาเเล้วมันขึ้นอันนี้"* · คลิกขวาที่ไหนก็ขึ้นเมนูของเบราว์เซอร์ ย้อนกลับ รีเฟรช บันทึกเป็น พิมพ์ เครื่องมือเพิ่มเติม | [ภาพ](bugs/28-เมนูคลิกขวาของเบราว์เซอร์.png) | ยังไม่แก้ · ต้นเหตุ ตัวแสดงผล WebView2 มีเมนูนี้ติดมา โปรแกรมไม่ได้ปิด · 🔴 กดรีเฟรชแล้วหน้าจอโหลดใหม่ ของที่เลือกไว้หาย · เครื่องมือเพิ่มเติมเปิดเครื่องมือนักพัฒนาได้ · ทางแก้ ปิดเมนูของเบราว์เซอร์ทั้งโปรแกรมในตัวจริง (โหมดพัฒนาเก็บไว้ใช้ตรวจได้) · ช่องพิมพ์ข้อความยังคลิกขวาคัดลอกวางได้ · กด F5 Ctrl+R Ctrl+P ในตัวจริงต้องไม่รีเฟรชหรือพิมพ์ด้วย · ต่อยอดได้ทีหลัง เมนูคลิกขวาของโปรแกรมเอง เช่นบนปกหนัง (เปิดเล่น ข้อมูลไฟล์ เปิดโฟลเดอร์) ถามพี่กันก่อน |
 | 28 (ต่อ) | 10 พ.ย. 2569 | ทั้งโปรแกรม (คลิกขวา บันทึกเป็น) | *"กดบันทึกเเล้วบันทึก html ได้ด้่วยย"* · เมนูบันทึกเป็นของเบราว์เซอร์ บันทึกหน้าจอโปรแกรมเป็นไฟล์ ชั้นหนัง.html ได้ | [ภาพ](bugs/28-บันทึกเป็น-html.png) | ยังไม่แก้ · ไฟล์ที่ได้มีชื่อหนังและที่อยู่ไฟล์บนชั้นวางติดไปด้วย · ปิดพร้อมเมนูคลิกขวา และกัน Ctrl+S ในตัวจริงด้วย |
 | 29 | 10 พ.ย. 2569 | MediaInfo (หน้าข้อมูลไฟล์) | *"เราว่า มันยังมีที่วว่างฝั่งขวาเยอะจั"* · หน้าต่างกว้าง ข้อความ MediaInfo อยู่ครึ่งซ้าย ครึ่งขวาว่าง | [ภาพ](bugs/29-mediainfo-ที่ว่างขวา.png) | ยังไม่แก้ · แคลร์เสนอ ก) จอกว้างพอแบ่งสองคอลัมน์ หมวด General กับ Video ซ้าย Audio Text Menu ขวา · ข) แผงขวาสรุปสั้น รูปปกใหญ่ ตัวเลขหลัก (ความละเอียด codec เสียงซับกี่แทร็ก ขนาด ความยาว) และรายชื่อหมวดกดกระโดดไปได้ · ค) ทั้งสองแบบ · รอพี่กันเลือก (เรื่องหน้าตา ทำแบบให้ดูก่อน) |
